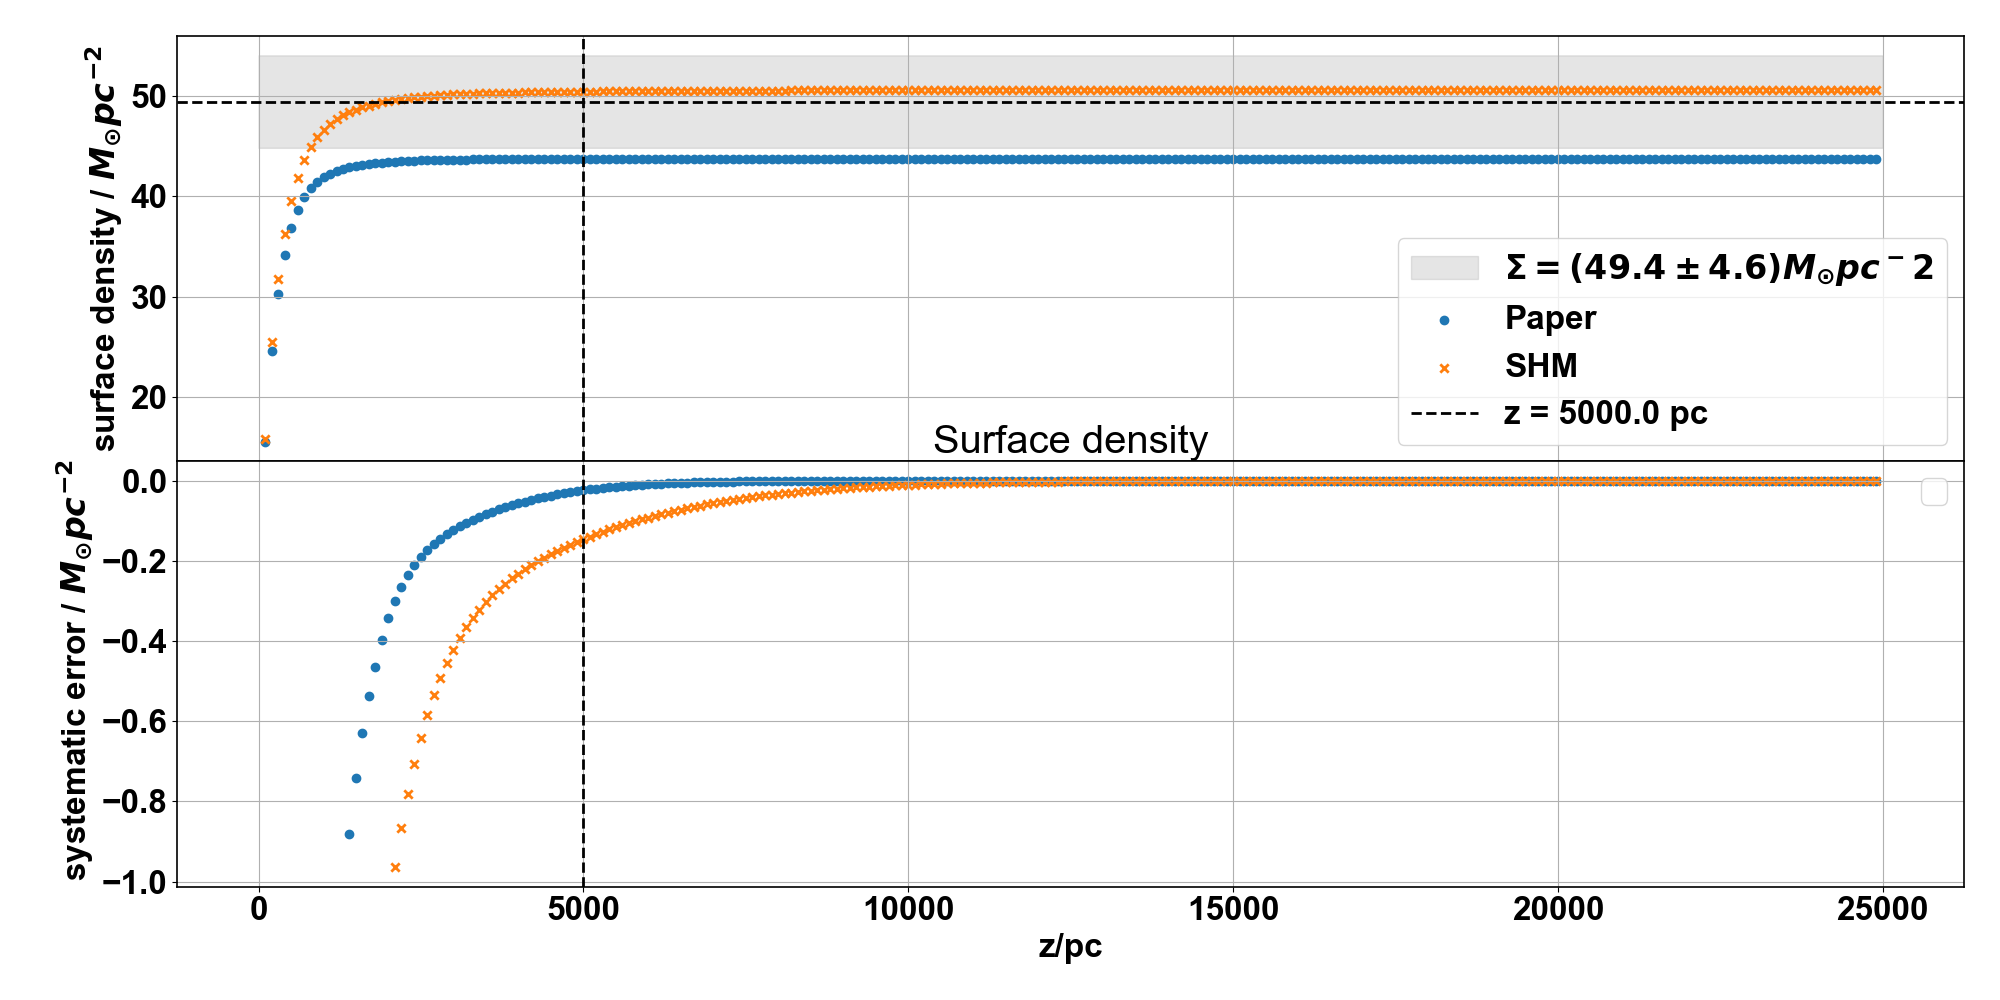
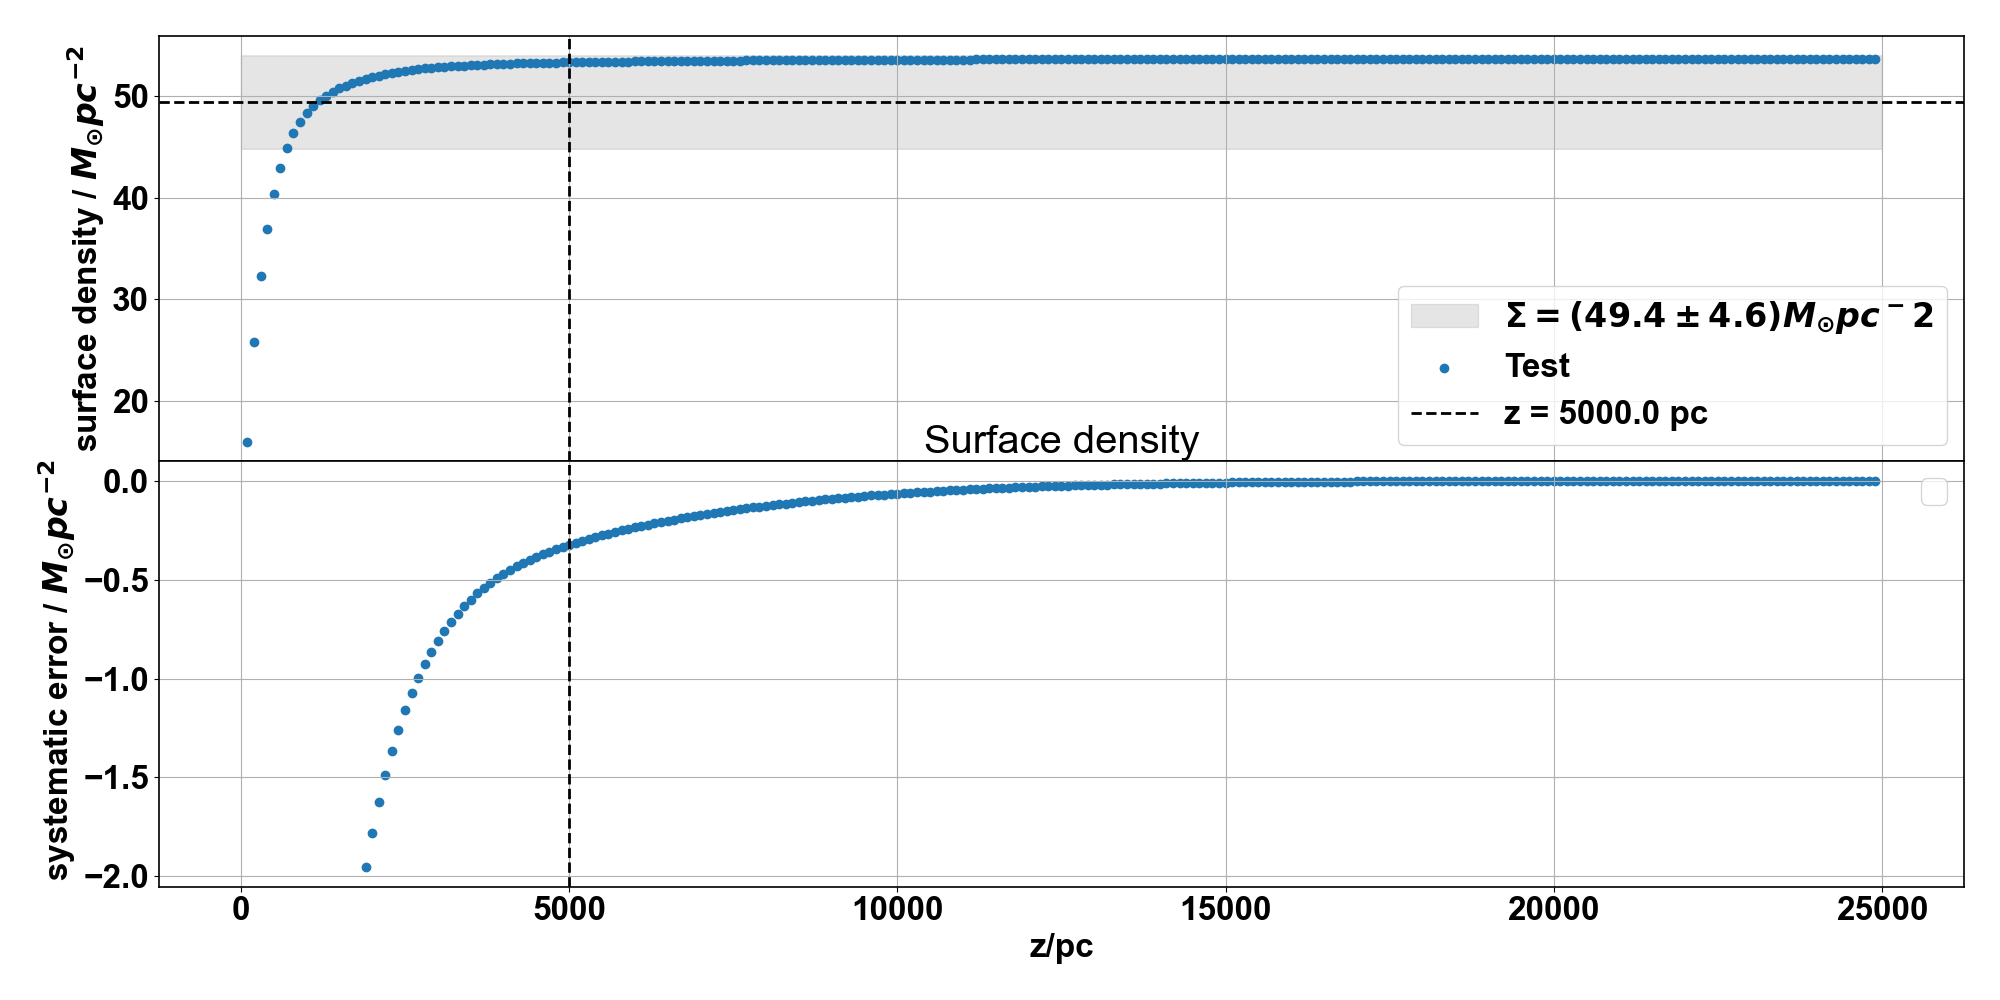
Plots

diff --git a/gravpot_determination_real.py b/gravpot_determination_real.py
@@ -335,14 +335,23 @@ n3_ = int(z3_/dz3_+1)
 import util_with_inter as u2
 importlib.reload(u2)
 points = jnp.unique(jnp.append(jnp.linspace(0, z3_, n3_), jnp.linspace(0, z1_, n1_)))
-uz_paper, zs_paper = u2.Solver(rho_dm, params, points)
-uz_SHM, zs_SHM = u2.Solver(rho_dm_SHM, params, points)
+wheres = [list(points).index(element) for element in jnp.unique(jnp.append(jnp.arange(100, z3_, 100), jnp.arange(z3_, z1_, 100)))]
+
+# uz_paper, zs_paper = u2.Solver(rho_dm, params, points)
+# uz_paper2, zs_paper2 = u2.Solver(rho_dm, 1.15*params, points)
+# uz_SHM, zs_SHM = u2.Solver(rho_dm_SHM, params, points)
+# uz_SHM2, zs_SHM2 = u2.Solver(rho_dm_SHM, 1.15*params, points)
 
 def term(params, u):
     return jnp.sum(params[:,0]*jnp.exp(-u[0]/params[:,1]**2))
 
-term_paper = jnp.array([term(params, u) for u in uz_paper])
-term_SHM = jnp.array([term(params, u) for u in uz_SHM])
+def surf_dens(term, where):
+    return 2*jnp.sum(term[:where]*(points[1:where+1]-points[:where]))
+
+# term_paper = jnp.array([term(params, u) for u in uz_paper])
+# term_paper2 = jnp.array([term(1.15*params, u) for u in uz_paper2])
+# term_SHM = jnp.array([term(params, u) for u in uz_SHM])
+# term_SHM2 = jnp.array([term(1.15*params, u) for u in uz_SHM2])
 
 # ''' Visualisation '''
 # fig, ax = plt.subplots(2, figsize=(20,20), sharex=True, gridspec_kw={'height_ratios': [1,1]})
@@ -365,6 +374,54 @@ term_SHM = jnp.array([term(params, u) for u in uz_SHM])
 # fig.subplots_adjust(hspace=0.0)
 
 
+# fig, ax = plt.subplots(2, figsize=(20,10), sharex=True, gridspec_kw={'height_ratios': [1,1]})
+# plt.title('Surface density')
+# ax[0].set_xlabel('z/pc')
+# ax[0].set_ylabel('surface density / $M_{\odot}pc^{-2}$')
+# ax[1].set_xlabel('z/pc')
+# ax[1].set_ylabel(' systematic error / $M_{\odot}pc^{-2}$')
+# ax[0].axhline(49.4, color='black', linestyle='--')
+# ax[0].fill_between(points, 49.4-4.6,49.4+4.6, color='gray', alpha=0.2, label=rf'$\Sigma = (49.4 \pm 4.6) M_{{\odot}}pc^{-2}$')
+
+# x = jnp.array([points[where] for where in wheres])
+# y_paper = jnp.array([surf_dens(term_paper, where) for where in wheres])
+# y_paper2 = jnp.array([surf_dens(term_paper2, where) for where in wheres])
+# y_SHM = jnp.array([surf_dens(term_SHM, where) for where in wheres])
+# y_SHM2 = jnp.array([surf_dens(term_SHM2, where) for where in wheres])
+# ax[0].scatter(x, y_paper, label='Paper [1]', marker='o', color='tab:blue')
+# ax[0].scatter(x, y_paper2, label='Paper [1.15]', marker='o', color='tab:cyan')
+# ax[0].scatter(x, y_SHM, label='SHM', marker='x', color='tab:orange')
+# ax[0].scatter(x, y_SHM2, label='SHM [1.15]', marker='x', color='orange')
+
+# i = 49
+# ax[1].scatter(x[13:], y_paper[13:]-surf_dens(term_paper, wheres[-1]), marker='o', color='tab:blue')
+# ax[1].scatter(x[13:], y_paper2[13:]-surf_dens(term_paper2, wheres[-1]), marker='o', color='tab:cyan')
+# ax[1].scatter(x[20:], y_SHM[20:]-surf_dens(term_SHM, wheres[-1]), marker='x', color='tab:orange')
+# ax[1].scatter(x[20:], y_SHM2[20:]-surf_dens(term_SHM2, wheres[-1]), marker='x', color='orange')
+# ax[0].axvline(x[i], color='black', linestyle='--', label=f'z = {x[i]} pc')
+# ax[1].axvline(x[i], color='black', linestyle='--')
+
+# ax[0].grid()
+# ax[1].grid(which='both')
+# ax[0].legend()
+# ax[1].legend()
+# #ax[1].set_yscale('log')
+# fig.tight_layout()
+# fig.subplots_adjust(hspace=0.0)
+
+# print( 2 * jnp.sum(term_paper[:-1] * (points[1:]-points[:-1])) )
+# print( 2 * jnp.sum(term_SHM[:-1] * (points[1:]-points[:-1])) )
+# print(49.4, '+-', 4.6)
+
+uz_test, zs_test = u2.Solver(0.003, params, points)
+# uz_test2, zs_test2 = u2.Solver(0.03, 1.1*params, points)
+
+term_test = jnp.array([term(params, u) for u in uz_test])
+# term_test2 = jnp.array([term(1.1*params, u) for u in uz_test2])
+
+y_test = jnp.array([surf_dens(term_test, where) for where in wheres])
+# y_test2 = jnp.array([surf_dens(term_test2, where) for where in wheres])
+
 fig, ax = plt.subplots(2, figsize=(20,10), sharex=True, gridspec_kw={'height_ratios': [1,1]})
 plt.title('Surface density')
 ax[0].set_xlabel('z/pc')
@@ -374,20 +431,15 @@ ax[1].set_ylabel(' systematic error / $M_{\odot}pc^{-2}$')
 ax[0].axhline(49.4, color='black', linestyle='--')
 ax[0].fill_between(points, 49.4-4.6,49.4+4.6, color='gray', alpha=0.2, label=rf'$\Sigma = (49.4 \pm 4.6) M_{{\odot}}pc^{-2}$')
 
-def surf_dens(term, where):
-    return 2*jnp.sum(term[:where]*(points[1:where+1]-points[:where]))
-
-wheres = [list(points).index(element) for element in jnp.unique(jnp.append(jnp.arange(100, z3_, 100), jnp.arange(z3_, z1_, 100)))]
-
 x = jnp.array([points[where] for where in wheres])
-y_paper = jnp.array([surf_dens(term_paper, where) for where in wheres])
-y_SHM = jnp.array([surf_dens(term_SHM, where) for where in wheres])
-ax[0].scatter(x, y_paper, label='Paper', marker='o')
-ax[0].scatter(x, y_SHM, label='SHM', marker='x')
+ax[0].scatter(x, y_test, label='Test', marker='o', color='tab:blue')
+# ax[0].scatter(x, y_test2, label='Test [0.8]', marker='o', color='tab:cyan')
+
 
 i = 49
-ax[1].scatter(x[13:], y_paper[13:]-surf_dens(term_paper, wheres[-1]), marker='o')
-ax[1].scatter(x[20:], y_SHM[20:]-surf_dens(term_SHM, wheres[-1]), marker='x')
+ax[1].scatter(x[18:], y_test[18:]-surf_dens(term_test, wheres[-1]), marker='o', color='tab:blue')
+# ax[1].scatter(x[13:], y_test2[13:]-surf_dens(term_test2, wheres[-1]), marker='o', color='tab:cyan')
+
 ax[0].axvline(x[i], color='black', linestyle='--', label=f'z = {x[i]} pc')
 ax[1].axvline(x[i], color='black', linestyle='--')
 
@@ -399,7 +451,3 @@ ax[1].legend()
 fig.tight_layout()
 fig.subplots_adjust(hspace=0.0)
 plt.savefig('Plots/surface_density.png')
-
-# print( 2 * jnp.sum(term_paper[:-1] * (points[1:]-points[:-1])) )
-# print( 2 * jnp.sum(term_SHM[:-1] * (points[1:]-points[:-1])) )
-# print(49.4, '+-', 4.6)
